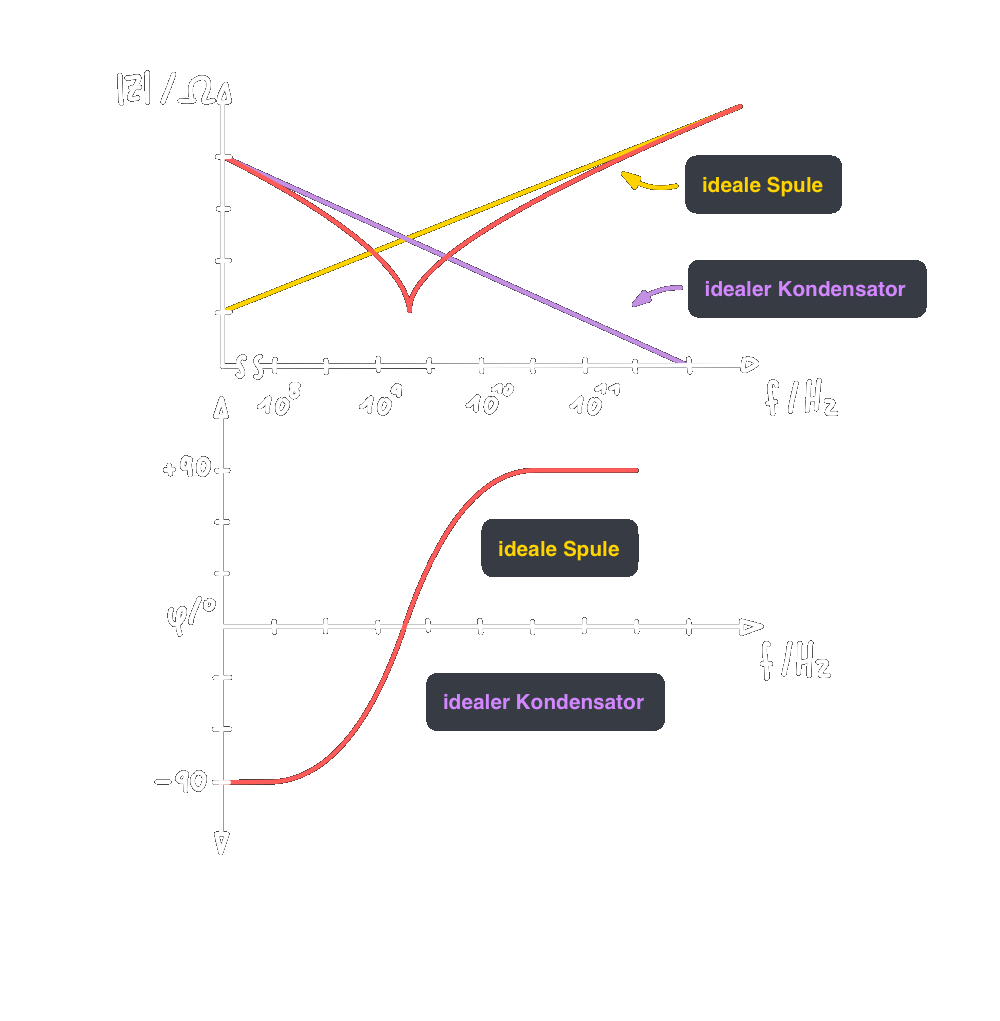
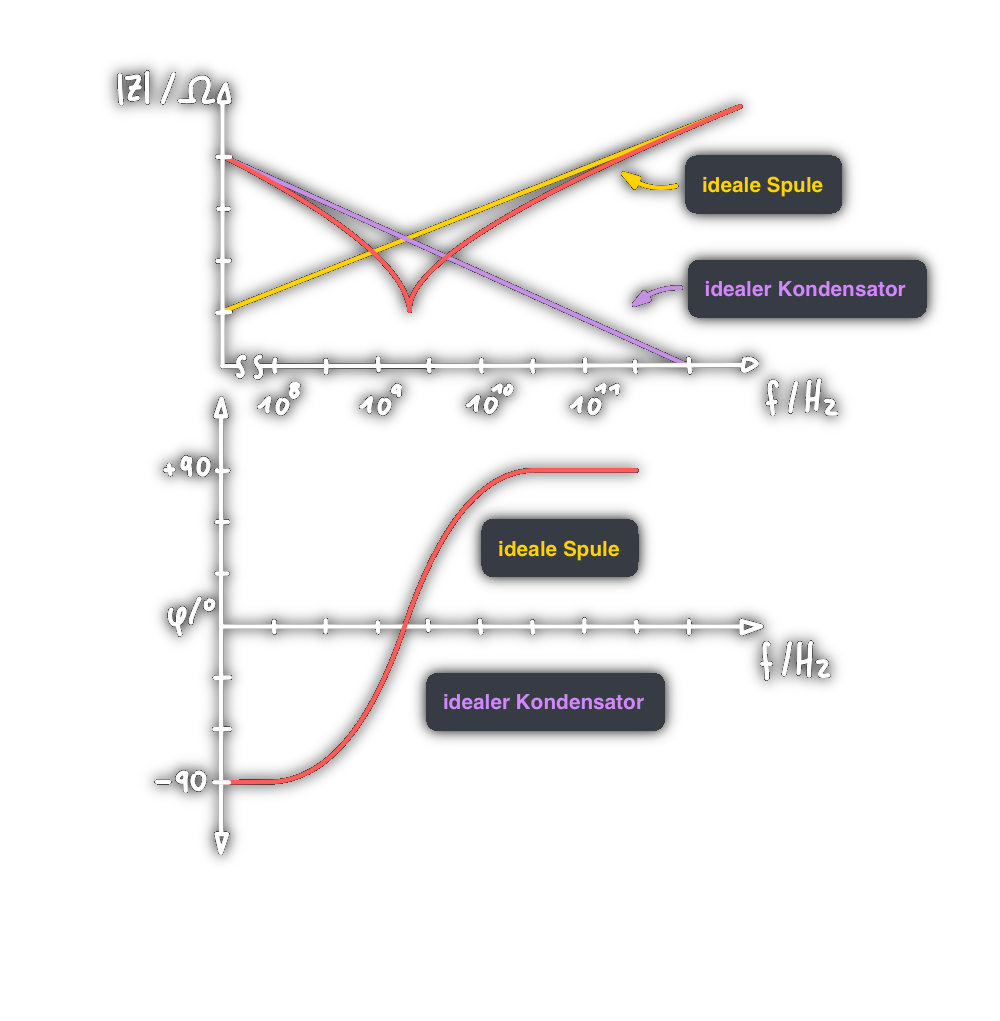
vault backup: 2023-04-11 10:17:33

Changed region(s): [[0.093, 0.0607, 0.93, 0.8501], [0.93, 0.2733, 0.961, 0.3036]]

diff --git a/hwe/Elektromagnetische Verträglichkeit.md b/hwe/Elektromagnetische Verträglichkeit.md
@@ -61,11 +61,12 @@ Eine elektromagnetische Größe (Spannung-/ Stromfeldstärke) die eine unerwünn
 > ![[EMV-horiz2.png]]
 > Kleine Chip-Kondensatoren gehen bis zu sehr hohen Resonanzfrequenzen.
 
-![[EMV_impedanz.png|700]]
+> [!info] Resonanzverlauf
+> ![[EMV_impedanz.png|700]]
 
 ## Abblockkondensator
 Da die [[Impedanz]] eines Kondensators bis zur Resonanzfrequenz sinkt, können HF-Störungen auf Versorgungsleitungen mit Gleichsignalen oder NF-Signalen durch einen Parallelgeschalteten [[Kapazität|Kondensator]] (Kurzschluss-geblockt) werden.
-
+![[AbblockCap.png|400]]
 Für das NF-Signal: [[Kapazität]] ist ein Leerlauf
 Für die HF-Störung: [[Kapazität]] ist ein Kurzschluss
 
